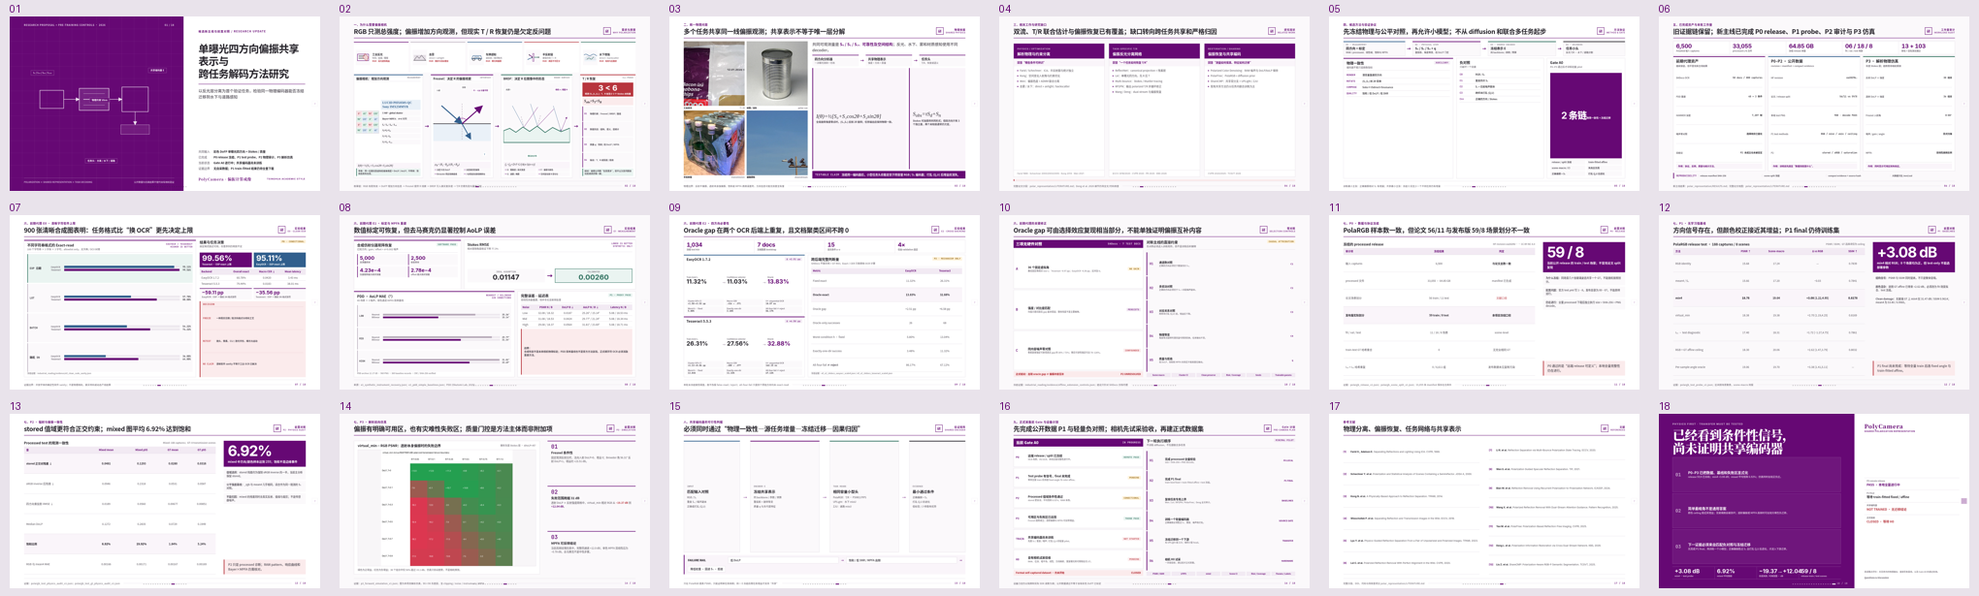
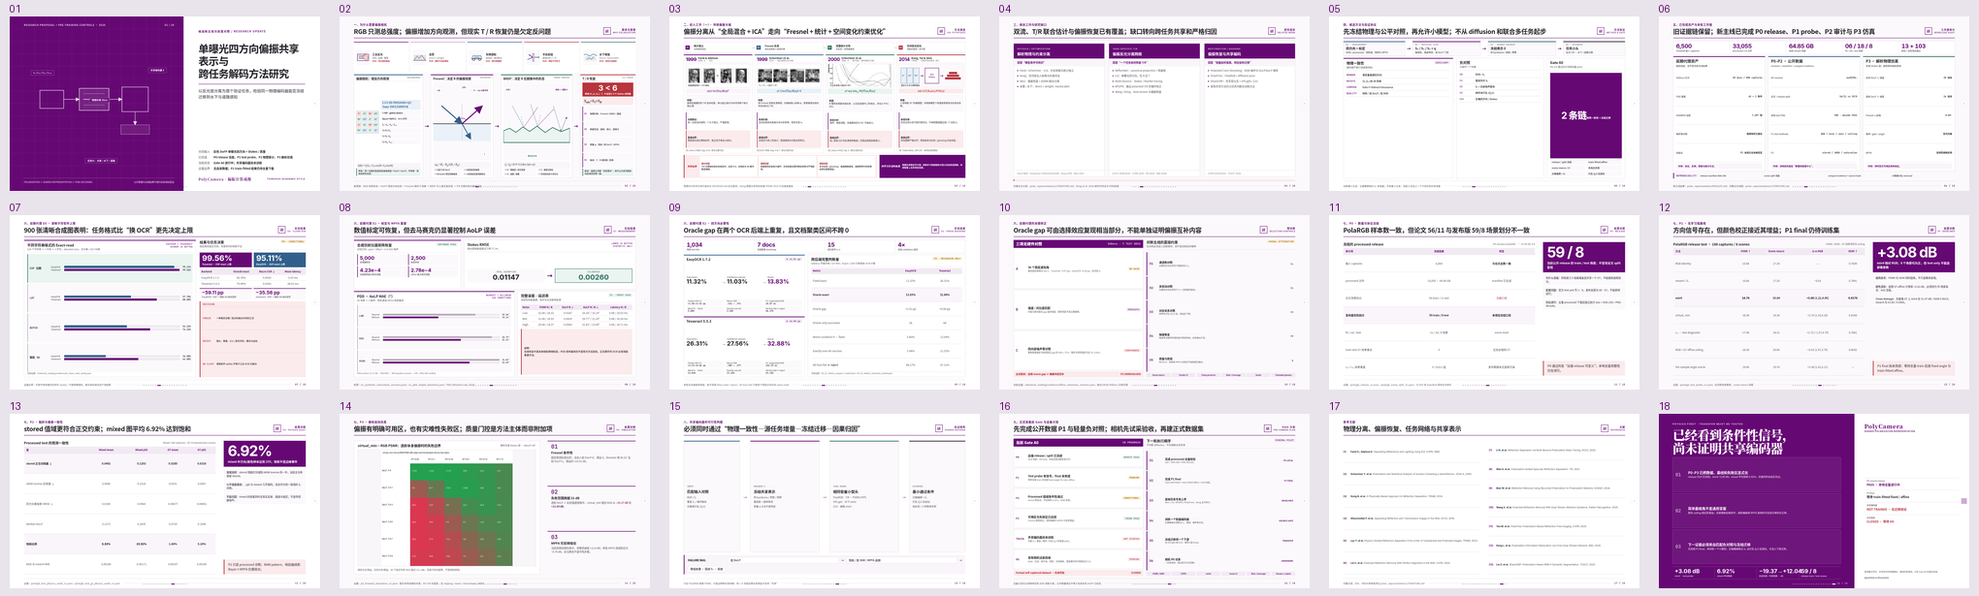
docs: revise slide 3 classical polarization methods

Changed region(s): [[0.3397, 0.0309, 0.4941, 0.3089]]

diff --git a/demo/tsinghua-ppt/index.html b/demo/tsinghua-ppt/index.html
@@ -444,6 +444,47 @@
   .hypothesis-band strong{font:800 clamp(13px,.84vw,16px)/1.2 var(--mono);letter-spacing:.06em}
   .hypothesis-band span{font:650 clamp(14px,.9vw,17px)/1.42 var(--sans)}
 
+  /* 03 · 传统偏振反光分离演进 */
+  .classical-work-layout{height:100%;display:grid;grid-template-columns:1fr;grid-template-rows:6.3vh minmax(0,1fr) 13.2vh;gap:.9vh}
+  .classical-prior-axis{position:relative;display:grid;grid-template-columns:repeat(4,1fr);gap:.72vw;align-items:stretch}
+  .classical-prior-axis::before{content:"";position:absolute;left:4%;right:4%;top:50%;height:2px;background:var(--line-strong)}
+  .classical-axis-node{position:relative;z-index:1;display:grid;grid-template-columns:2.2em 1fr;gap:.48vw;align-items:center;padding:.55vh .55vw;background:#fff;border:1px solid var(--line)}
+  .classical-axis-node .no{display:grid;place-items:center;width:2em;aspect-ratio:1;background:var(--accent);color:#fff;font:800 clamp(10px,.67vw,13px)/1 var(--mono)}
+  .classical-axis-node strong{display:block;font:750 clamp(12px,.78vw,15px)/1.2 var(--sans);color:var(--ink)}
+  .classical-axis-node span{display:block;margin-top:.2vh;font:650 clamp(10px,.65vw,12px)/1.2 var(--sans);color:var(--muted)}
+  .classical-axis-node:nth-child(2) .no{background:var(--info)}.classical-axis-node:nth-child(3) .no{background:var(--success)}.classical-axis-node:nth-child(4) .no{background:var(--danger)}
+  .classical-paper-grid{min-height:0;display:grid;grid-template-columns:repeat(4,1fr);gap:.72vw}
+  .classical-paper{min-height:0;display:grid;grid-template-rows:auto 13.7vh auto 1fr auto;gap:.5vh;padding:.72vh .62vw;border:1px solid var(--line);border-top:4px solid var(--accent);background:#fff}
+  .classical-paper:nth-child(2){border-top-color:var(--info)}.classical-paper:nth-child(3){border-top-color:var(--success)}.classical-paper:nth-child(4){border-top-color:var(--danger)}
+  .classical-paper-head{display:grid;grid-template-columns:auto 1fr;gap:.52vw;align-items:center;padding-bottom:.42vh;border-bottom:1px solid var(--line)}
+  .classical-paper-head .year{color:var(--accent);font:800 clamp(21px,1.55vw,30px)/1 var(--sans-latin);letter-spacing:-.04em}
+  .classical-paper-head h2{font:750 clamp(13px,.84vw,16px)/1.15 var(--sans);color:var(--ink)}
+  .classical-paper-head span{display:block;margin-top:.2vh;color:var(--muted);font:700 clamp(9px,.61vw,11px)/1.1 var(--mono);letter-spacing:.04em}
+  .classical-paper-figure{position:relative;min-height:0;overflow:hidden;display:grid;place-items:center;background:var(--paper-soft);border:1px solid var(--line)}
+  .classical-paper-figure img{width:100%;height:100%;display:block;object-fit:contain;background:#fff}
+  .classical-paper-figure .figure-label{position:absolute;left:.35vw;bottom:.35vh;padding:.24vh .32vw;background:rgba(255,255,255,.9);color:var(--ink-soft);font:750 clamp(9px,.6vw,11px)/1.1 var(--sans)}
+  .classical-paper-equation{padding:.48vh .45vw;background:var(--accent-pale);color:var(--accent);font:italic 650 clamp(13px,.88vw,17px)/1.2 var(--equation);text-align:center}
+  .classical-paper:nth-child(2) .classical-paper-equation{background:var(--info-soft);color:var(--info)}.classical-paper:nth-child(3) .classical-paper-equation{background:var(--success-soft);color:var(--success)}.classical-paper:nth-child(4) .classical-paper-equation{background:var(--danger-soft);color:var(--danger)}
+  .classical-paper-body{min-height:0;display:grid;grid-template-rows:repeat(3,1fr);gap:.42vh}
+  .classical-paper-body p{display:grid;align-content:center;padding:.46vh .44vw;background:var(--paper-soft);font:550 clamp(11px,.7vw,13px)/1.32 var(--sans);color:var(--ink-soft)}
+  .classical-paper-body strong{color:var(--ink);font-weight:750}
+  .classical-paper-body .added{border-left:3px solid var(--accent);background:#fff}
+  .classical-paper-body .boundary{border-left:3px solid var(--danger);background:var(--danger-soft)}
+  .classical-paper-cite{padding-top:.4vh;border-top:1px solid var(--line);font:550 clamp(9px,.61vw,11px)/1.25 var(--sans-latin);color:var(--muted)}
+  .kong-diagram{height:100%;width:100%;display:grid;grid-template-columns:1fr auto .78fr auto .92fr;gap:.32vw;align-items:center;padding:.8vh .55vw;background:var(--paper-soft)}
+  .kong-inputs{display:grid;grid-template-columns:repeat(3,1fr);gap:.2vw;height:76%}.kong-inputs i{display:grid;place-items:center;background:var(--info-soft);border:1px solid var(--info);color:var(--info);font:800 clamp(10px,.68vw,13px)/1 var(--mono);font-style:normal}
+  .kong-map{display:grid;place-items:center;height:76%;padding:.4vh .3vw;background:#fff;border:2px solid var(--accent);color:var(--accent);text-align:center;font:700 clamp(10px,.67vw,13px)/1.25 var(--equation)}
+  .kong-pyramid{height:76%;display:grid;align-content:center;justify-items:center;gap:.28vh}.kong-pyramid i{display:block;height:1.25vh;background:var(--danger)}.kong-pyramid i:nth-child(1){width:48%}.kong-pyramid i:nth-child(2){width:70%}.kong-pyramid i:nth-child(3){width:92%}
+  .kong-arrow{color:var(--accent);font:800 clamp(16px,1.1vw,21px)/1 var(--sans)}
+  .classical-bottom{min-height:0;display:grid;grid-template-columns:2.25fr 1fr;gap:.72vw}
+  .classical-limits{display:grid;grid-template-columns:auto repeat(3,1fr);gap:.5vw;align-items:stretch;padding:.65vh .62vw;background:var(--danger-soft);border-left:4px solid var(--danger)}
+  .classical-limits>strong{display:grid;place-items:center;padding:0 .42vw;color:var(--danger);font:800 clamp(11px,.72vw,14px)/1.15 var(--mono);letter-spacing:.05em}
+  .classical-limit{display:grid;align-content:center;padding:.45vh .5vw;background:#fff;font:600 clamp(10px,.67vw,13px)/1.28 var(--sans);color:var(--ink-soft)}
+  .classical-limit b{display:block;margin-bottom:.2vh;color:var(--danger);font-weight:800}
+  .classical-inspiration{display:grid;grid-template-columns:auto 1fr;gap:.6vw;align-items:center;padding:.7vh .65vw;background:var(--accent);color:#fff}
+  .classical-inspiration strong{font:800 clamp(11px,.72vw,14px)/1.2 var(--mono);letter-spacing:.05em}
+  .classical-inspiration span{font:650 clamp(10px,.67vw,13px)/1.32 var(--sans)}
+
   /* 03 · 系统、协议与 Gate */
   .protocol-layout{height:100%;display:grid;grid-template-rows:auto 1fr;gap:1.15vh}
   .compact-flow{display:grid;grid-template-columns:1fr auto 1.1fr auto 1.1fr auto 1fr;gap:.55vw;align-items:stretch}
@@ -830,16 +871,18 @@
   </div>
 </section>
 
-<section class="slide" data-layout="THU03" data-animate="academic" data-slide-id="background-physics">
-  <div class="thu-page"><header class="thu-header"><div><div class="thu-section">二、统一物理问题</div><h1 class="thu-title">多个任务共享同一线偏振观测；共享表示不等于唯一层分解</h1></div><div class="thu-brand"><div class="thu-brand-mark">研</div><div class="thu-brand-copy"><strong>物理依据</strong><span>Shared Physics</span></div></div></header>
-  <main class="thu-content compact"><div class="background-layout intro-layout">
-    <div class="intro-scenes" data-anim><figure><img src="images/03-date-code.webp" data-image-slot="thu03-industrial-reflection" alt="光泽包装反光示意"><figcaption><strong>工业反光</strong><span>T + R</span></figcaption></figure><figure><img src="images/04-metal-can.webp" data-image-slot="thu03-material-normal" alt="金属表面反射示意"><figcaption><strong>材质 / 法向</strong><span>polar cue</span></figcaption></figure><figure><img src="images/04-shrink-bottles.webp" data-image-slot="thu03-semireflector" alt="透明介质反射示意"><figcaption><strong>半反射层</strong><span>transmission</span></figcaption></figure><figure><img src="images/03-anpr.webp" data-image-slot="thu03-road-perception" alt="道路视觉感知示意"><figcaption><strong>道路感知</strong><span>downstream</span></figcaption></figure></div>
-    <div class="intro-logic" data-anim><p class="lead">共同可观测量是 <strong class="accent">S₀ / S₁ / S₂、可靠性及空间结构</strong>；反光、水下、雾和材质感知使用不同 decoder。</p>
-      <div class="problem-chain"><div class="problem-step"><strong>四方向分析器</strong><span>一次曝光测同一光场</span></div><span class="problem-arrow">→</span><div class="problem-step"><strong>共享物理表示</strong><span>强度 + 方向 + 质量</span></div><span class="problem-arrow">→</span><div class="problem-step"><strong>任务头</strong><span>T/R、恢复或语义</span></div></div>
-      <div class="physics-compact"><div class="physics-equation"><div class="math">I(θ)=½[S₀+S₁cos2θ+S₂sin2θ]</div><p>全局旋转角度零点时，(S₁,S₂) 应按 2θ 旋转；任务输出应保持物理一致。</p></div><div class="physics-equation"><div class="math">S<sub>obs</sub>=τS<sub>d</sub>+S<sub>n</sub></div><p>Stokes 可加提供共同形式；但四方向只有 3 个独立量，两个未知层通常仍欠定。</p></div></div>
-      <div class="hypothesis-band"><strong>TESTABLE CLAIM</strong><span>冻结同一编码器后，小型任务头应稳定优于同容量 RGB / S₀ 编码器；打乱 (Q,U) 后增益应消失。</span></div>
+<section class="slide" data-layout="THU04" data-animate="academic" data-slide-id="classical-reflection-separation">
+  <div class="thu-page"><header class="thu-header"><div><div class="thu-section">二、前人工作（一）· 传统偏振分离</div><h1 class="thu-title">偏振分离从“全局混合 + ICA”走向“Fresnel + 统计 + 空间变化约束优化”</h1></div><div class="thu-brand"><div class="thu-brand-mark">研</div><div class="thu-brand-copy"><strong>方法演进</strong><span>ICA TO PHYSICS</span></div></div></header>
+  <main class="thu-content tight"><div class="classical-work-layout research-map">
+    <div class="classical-prior-axis" data-anim><div class="classical-axis-node"><span class="no">01</span><div><strong>统计独立</strong><span>全局线性混合</span></div></div><div class="classical-axis-node"><span class="no">02</span><div><strong>Fresnel 反演</strong><span>混合系数受入射角约束</span></div></div><div class="classical-axis-node"><span class="no">03</span><div><strong>完整统计分布</strong><span>互信息 + 双表面玻璃</span></div></div><div class="classical-axis-node"><span class="no">04</span><div><strong>空间变化优化</strong><span>局部系数场 + 多尺度</span></div></div></div>
+    <div class="classical-paper-grid" data-anim>
+      <article class="classical-paper"><div class="classical-paper-head"><span class="year">1999</span><div><h2>Farid &amp; Adelson</h2><span>JOSA A · ICA</span></div></div><figure class="classical-paper-figure"><img src="images/03-farid-ica.webp" data-image-slot="thu04-farid-ica" alt="Farid 与 Adelson 论文中两幅偏振混合观测及 ICA 分离结果的节选组合"><span class="figure-label">两幅偏振观测 → ICA 输出</span></figure><div class="classical-paper-equation">y(x)=A·[T(x),R(x)]ᵀ</div><div class="classical-paper-body"><p><strong>侧重：</strong>旋转检偏器改变 T/R 混合权重，再以独立成分分析寻找两个统计独立源。</p><p class="added"><strong>关键假设：</strong>同一全局混合矩阵；T 与 R 独立、严格配准。</p><p class="boundary"><strong>直接边界：</strong>两层相关或文理相似时，独立性不再足以辨识。</p></div><div class="classical-paper-cite">[1] <em>JOSA A</em> 16(9), Figs. 8–9（原论文图节选）</div></article>
+      <article class="classical-paper"><div class="classical-paper-head"><span class="year">1999</span><div><h2>Schechner et al.</h2><span>ICCV · DECORRELATION</span></div></div><figure class="classical-paper-figure"><img src="images/03-schechner-decorrelation.webp" data-image-slot="thu04-schechner-iccv" alt="Schechner 等 ICCV 1999 论文中偏振观测及透射反射层重建结果节选"><span class="figure-label">f⊥ / f∥ → 估计 T / R</span></figure><div class="classical-paper-equation">φ̂: Corr[T̂(φ),R̂(φ)]=0</div><div class="classical-paper-body"><p><strong>侧重：</strong>用 Fresnel 系数反演两层；扫描玻璃入射角 φ，使重建层去相关并自动标注 T/R。</p><p class="added"><strong>新增约束：</strong>混合权重来自表面方向与折射率，而非任意 A。</p><p class="boundary"><strong>直接边界：</strong>去相关只用二阶统计；错误角度也可能出现零点。</p></div><div class="classical-paper-cite">[2] ICCV 1999, Figs. 5 &amp; 7（原论文图节选）</div></article>
+      <article class="classical-paper"><div class="classical-paper-head"><span class="year">2000</span><div><h2>Schechner et al.</h2><span>JOSA A · MUTUAL INFORMATION</span></div></div><figure class="classical-paper-figure"><img src="images/03-schechner-mi-minima.webp" data-image-slot="thu04-schechner-josa" alt="Schechner 等 JOSA A 2000 论文图 5 中互信息极小值区域，重建层互信息随假设入射角变化"><span class="figure-label">以互信息极小值估计 AOI</span></figure><div class="classical-paper-equation">φ̂=arg min<sub>φ</sub> MI[T̂(φ),R̂(φ)]</div><div class="classical-paper-body"><p><strong>侧重：</strong>扩展到双表面内部反射，以互信息替代二阶相关，并估计 POI / AOI。</p><p class="added"><strong>新增分析：</strong>噪声、角度误差、低偏振效应与 90° 平面歧义。</p><p class="boundary"><strong>直接边界：</strong>低 / 极高 AOI 时反演噪声敏感；仍假设两层依赖很小。</p></div><div class="classical-paper-cite">[3] <em>JOSA A</em> 17(2), Fig. 5（原论文图节选）</div></article>
+      <article class="classical-paper"><div class="classical-paper-head"><span class="year">2014</span><div><h2>Kong, Tai &amp; Shin</h2><span>TPAMI · CONSTRAINED OPT.</span></div></div><div class="classical-paper-figure"><div class="kong-diagram" aria-label="三张偏振输入经过空间变化入射角和平面方向估计，再进入多尺度约束优化"><div class="kong-inputs"><i>0°</i><i>45°</i><i>90°</i></div><span class="kong-arrow">→</span><div class="kong-map">φ(x)<br>POI(x)</div><span class="kong-arrow">→</span><div class="kong-pyramid"><i></i><i></i><i></i></div></div><span class="figure-label">据论文方法与摘要重绘</span></div><div class="classical-paper-equation">min E(T,R,φ(x),POI(x))</div><div class="classical-paper-body"><p><strong>侧重：</strong>三张相差 45° 的偏振图；双表面模型下处理逐像素变化的混合系数。</p><p class="added"><strong>新增约束：</strong>空间正则与多尺度约束优化，不再把整幅图压成一个全局 A。</p><p class="boundary"><strong>直接边界：</strong>多张图需严格对齐；厚玻璃多次反射 / ghosting 仍会失配。</p></div><div class="classical-paper-cite">[4] <em>TPAMI</em> 36(2), 209–221（本项目机制重绘）</div></article>
     </div>
-  </div></main><footer class="thu-footer"><span>物理边界：反射不偏振、透射本身强偏振、饱和或 MPFA 高频误差时，方向信息可能无效甚至有害</span><span class="thu-footer-line"></span><span class="thu-page-no">03 / 18</span></footer></div>
+    <div class="classical-bottom" data-anim><div class="classical-limits"><strong>共同边界</strong><div class="classical-limit"><b>统计失配</b>T/R 文理相似或本身相关时，全局 ICA、去相关与 MI 都可能选错解。</div><div class="classical-limit"><b>测量失配</b>低偏振效应会放大噪声；多张采集还要求静态场景与严格配准。</div><div class="classical-limit"><b>模型失配</b>多次反射 / ghosting、曲面粗糙玻璃、偏振照明与饱和难由简化模型覆盖。</div></div><div class="classical-inspiration"><strong>对学习方法的启发</strong><span>物理负责限定可行域；网络学习局部结构与语义先验来选择解，并用质量 q 在失效区回退。</span></div></div>
+  </div></main><footer class="thu-footer"><span>原图均为学术引用节选并在 SOURCES.md 标注图号；Kong 框图为本项目依据 TPAMI 2014 方法描述重绘</span><span class="thu-footer-line"></span><span class="thu-page-no">03 / 18</span></footer></div>
 </section>
 
 <section class="slide soft" data-layout="THU04" data-animate="academic" data-slide-id="related-work-map">
@@ -988,7 +1031,7 @@
 
 <section class="slide" data-layout="THU16" data-animate="academic" data-slide-id="references">
   <div class="thu-page"><header class="thu-header"><div><div class="thu-section">参考文献</div><h1 class="thu-title">物理分离、偏振恢复、任务网络与共享表示</h1></div><div class="thu-brand"><div class="thu-brand-mark">研</div><div class="thu-brand-copy"><strong>文献</strong><span>References</span></div></div></header>
-  <main class="thu-content"><div class="reference-layout" data-anim><div class="ref-col"><div class="ref-item"><span><strong>Farid H., Adelson E.</strong> Separating Reflections and Lighting Using ICA. CVPR, 1999.</span></div><div class="ref-item"><span><strong>Schechner Y. et al.</strong> Polarization and Statistical Analysis of Scenes Containing a Semireflector. JOSA A, 2000.</span></div><div class="ref-item"><span><strong>Kong N. et al.</strong> A Physically-Based Approach to Reflection Separation. TPAMI, 2014.</span></div><div class="ref-item"><span><strong>Wieschollek P. et al.</strong> Separating Reflection and Transmission Images in the Wild. ECCV, 2018.</span></div><div class="ref-item"><span><strong>Lyu Y. et al.</strong> Physics-Guided Reflection Separation From a Pair of Unpolarized and Polarized Images. TPAMI, 2023.</span></div><div class="ref-item"><span><strong>Lei C. et al.</strong> Polarized Reflection Removal With Perfect Alignment in the Wild. CVPR, 2020.</span></div></div><div class="ref-col"><div class="ref-item"><span><strong>Li R. et al.</strong> Reflection Separation via Multi-Bounce Polarization State Tracing. ECCV, 2020.</span></div><div class="ref-item"><span><strong>Wen S. et al.</strong> Polarization Guided Specular Reflection Separation. TIP, 2021.</span></div><div class="ref-item"><span><strong>Bian W. et al.</strong> Reflection Removal Using Recurrent Polarization-to-Polarization Network. ICASSP, 2024.</span></div><div class="ref-item"><span><strong>Wang X. et al.</strong> Polarized Reflection Removal With Dual-Stream Attention Guidance. Pattern Recognition, 2025.</span></div><div class="ref-item"><span><strong>Yao M. et al.</strong> PolarFree: Polarization-Based Reflection-Free Imaging. CVPR, 2025.</span></div><div class="ref-item"><span><strong>Deng L. et al.</strong> Polarization Information Restoration via Cross Dual-Stream Network. KBS, 2026.</span></div><div class="ref-item"><span><strong>Liu Z. et al.</strong> ShareCMP: Polarization-Aware RGB-P Semantic Segmentation. TCSVT, 2025.</span></div></div></div></main>
+  <main class="thu-content"><div class="reference-layout" data-anim><div class="ref-col"><div class="ref-item"><span><strong>Farid H., Adelson E.</strong> Separating Reflections from Images by Use of Independent Component Analysis. JOSA A, 1999.</span></div><div class="ref-item"><span><strong>Schechner Y. et al.</strong> Polarization-Based Decorrelation of Transparent Layers. ICCV, 1999.</span></div><div class="ref-item"><span><strong>Schechner Y. et al.</strong> Polarization and Statistical Analysis of Scenes Containing a Semireflector. JOSA A, 2000.</span></div><div class="ref-item"><span><strong>Kong N. et al.</strong> A Physically-Based Approach to Reflection Separation. TPAMI, 2014.</span></div><div class="ref-item"><span><strong>Wieschollek P. et al.</strong> Separating Reflection and Transmission Images in the Wild. ECCV, 2018.</span></div><div class="ref-item"><span><strong>Lyu Y. et al.</strong> Physics-Guided Reflection Separation From a Pair of Unpolarized and Polarized Images. TPAMI, 2023.</span></div><div class="ref-item"><span><strong>Lei C. et al.</strong> Polarized Reflection Removal With Perfect Alignment in the Wild. CVPR, 2020.</span></div></div><div class="ref-col"><div class="ref-item"><span><strong>Li R. et al.</strong> Reflection Separation via Multi-Bounce Polarization State Tracing. ECCV, 2020.</span></div><div class="ref-item"><span><strong>Wen S. et al.</strong> Polarization Guided Specular Reflection Separation. TIP, 2021.</span></div><div class="ref-item"><span><strong>Bian W. et al.</strong> Reflection Removal Using Recurrent Polarization-to-Polarization Network. ICASSP, 2024.</span></div><div class="ref-item"><span><strong>Wang X. et al.</strong> Polarized Reflection Removal With Dual-Stream Attention Guidance. Pattern Recognition, 2025.</span></div><div class="ref-item"><span><strong>Yao M. et al.</strong> PolarFree: Polarization-Based Reflection-Free Imaging. CVPR, 2025.</span></div><div class="ref-item"><span><strong>Deng L. et al.</strong> Polarization Information Restoration via Cross Dual-Stream Network. KBS, 2026.</span></div><div class="ref-item"><span><strong>Liu Z. et al.</strong> ShareCMP: Polarization-Aware RGB-P Semantic Segmentation. TCSVT, 2025.</span></div></div></div></main>
   <footer class="thu-footer"><span>完整分层、DOI、代码与待核查项见 polar_representation/LITERATURE.md</span><span class="thu-footer-line"></span><span class="thu-page-no">17 / 18</span></footer></div>
 </section>
 
@@ -1002,8 +1045,8 @@
 <script>
 const SPEAKER_NOTES = [
   {id:'cover',title:'候选新主线与当前边界',section:'开场',minutes:0.4,purpose:'交代共享偏振表示的新主线、已完成 P0–P3 和尚未训练的边界',talk:['候选主线不再是只优化一个 OCR 或去反光任务，而是学习可冻结复用的偏振表示','反光层分离是第一个源任务，水下与道路分割是下游候选','目前只完成公开数据和解析仿真的 P0–P3；没有共享编码器结果，也没有自采数据'],transition:'先说明方向如何从前期深度和识读代理演进到共享表示'},
-  {id:'direction-change',title:'为什么需要偏振相机',section:'物理基础',minutes:1.8,purpose:'按“RGB 场景失效—DoFP 新观测—Fresnel 线索—BRDF 复杂度—T/R 欠定恢复”建立完整动机',talk:['先看顶部五类场景：工业高光会遮笔画，雾和水下把 direct 与散射叠加，车牌有逆反射和夜间眩光，玻璃让 transmission 与 reflection 同像素叠加；RGB 只测总强度，难区分成分','LUCID Phoenix PHX050S-QC / Sony IMX250MYR 用 Bayer 与四方向微偏振阵列一次曝光获取 I0、I45、I90、I135；经过标定和重建得到 S0、S1、S2，因此能合成任意虚拟检偏角并计算 DoLP/AoLP','Fresnel 图说明 s/p 反射系数随入射角不同，Brewster 角附近 R 的偏振线索最强；这决定图像中 R 的 DoLP 和最有利检偏角','BRDF 图说明真实 R 还由粗糙度 D、Fresnel F、遮蔽 G 和微法向分布共同决定，所以高光宽度、位置、颜色和偏振在空间上变化，不能套一个全局角度','最后观测只有三个独立 Stokes 量，而 T、R 各自至少有三个未知量；偏振增加信息但问题仍欠定，需要物理重组、数据先验和质量 q，在饱和或低 DoLP 时回退或拒绝'],transition:'下一页再展示传统 ICA、偏振 T/R 分离网络和其他相关工作分别如何处理这个欠定问题',cue:'按页面从上到下、从左到右讲：五场景 → 相机 → Fresnel → BRDF → 3<6'},
-  {id:'background-physics',title:'统一物理问题',section:'问题与文献',minutes:1.0,purpose:'给出共享表示的物理依据和欠定边界',talk:['四方向只测得三个独立线偏振 Stokes 量，多个任务共享的是这一光场而不是最终结果图','互不相干光的 Stokes 可加，使反光、雾和水下可写成 direct 与 nuisance 的统一形式','但两个未知层通常超过三个未知量，物理只缩小解空间，不能保证唯一分解','所以要同时输出质量，并在低 DoLP、饱和和 MPFA 失败时回退'],transition:'物理基础已有长期积累，下面明确现有网络已经做到哪里、我们的缺口还剩什么'},
+  {id:'direction-change',title:'为什么需要偏振相机',section:'物理基础',minutes:1.8,purpose:'按“RGB 场景失效—DoFP 新观测—Fresnel 线索—BRDF 复杂度—T/R 欠定恢复”建立完整动机',talk:['先看顶部五类场景：工业高光会遮笔画，雾和水下把 direct 与散射叠加，车牌有逆反射和夜间眩光，玻璃让 transmission 与 reflection 同像素叠加；RGB 只测总强度，难区分成分','LUCID Phoenix PHX050S-QC / Sony IMX250MYR 用 Bayer 与四方向微偏振阵列一次曝光获取 I0、I45、I90、I135；经过标定和重建得到 S0、S1、S2，因此能合成任意虚拟检偏角并计算 DoLP/AoLP','Fresnel 图说明 s/p 反射系数随入射角不同，Brewster 角附近 R 的偏振线索最强；这决定图像中 R 的 DoLP 和最有利检偏角','BRDF 图说明真实 R 还由粗糙度 D、Fresnel F、遮蔽 G 和微法向分布共同决定，所以高光宽度、位置、颜色和偏振在空间上变化，不能套一个全局角度','最后观测只有三个独立 Stokes 量，而 T、R 各自至少有三个未知量；偏振增加信息但问题仍欠定，需要物理重组、数据先验和质量 q，在饱和或低 DoLP 时回退或拒绝'],transition:'下一页先看传统方法如何从 ICA 逐步加入 Fresnel、统计分布和空间变化约束',cue:'按页面从上到下、从左到右讲：五场景 → 相机 → Fresnel → BRDF → 3<6'},
+  {id:'classical-reflection-separation',title:'传统偏振反光分离演进',section:'问题与文献',minutes:1.7,purpose:'用四篇代表工作说明传统路线如何从全局 ICA 逐步加入 Fresnel、统计分布和空间变化约束',talk:['Farid 与 Adelson 把两幅正交检偏图视为同一 T/R 的不同线性混合，并用 ICA 寻找统计独立源；这是最经典的“光学调制 + 盲源分离”起点','Schechner 的 ICCV 1999 工作不再让混合矩阵任意变化，而是用 Fresnel 系数把权重绑定到玻璃入射角；通过重建层去相关估计角度，并解决 ICA 的层标签歧义','JOSA A 2000 进一步考虑双表面内部反射，以互信息替代只看二阶矩的相关系数，同时系统分析噪声、角度误差和入射平面歧义','Kong 2014 使用三张相差 45 度的偏振图，把入射角和入射平面方向扩展为空间变化系数场，再通过多尺度约束优化求分离','共同边界是先验失配：T/R 相似文理或相关、低偏振与噪声、多次反射和动态错位都会破坏解析假设；对深度学习的启发不是丢掉物理，而是让网络补充局部结构与语义先验，并保留物理重组和质量门控'],transition:'传统路线已经把可辨识条件讲清楚，下一页再看深度网络如何用数据先验处理更复杂的真实场景',cue:'按顶部约束轴从左到右讲四篇工作，最后落到下方“统计 / 测量 / 模型失配”'},
   {id:'related-work-map',title:'相关工作与研究缺口',section:'问题与文献',minutes:1.2,purpose:'按路线梳理前人工作，并避免把已有双流/T-R/偏振恢复误写成创新',talk:['传统路线从 ICA、半反射面到空间变化入射角和 ADMM，主要回答可辨识条件','任务网络已经覆盖 canonical projection、先 R 后 T、多次反射 tracing、polarized T/R、dual-stream 和 polarization restoration','PolarFree 提供大规模数据，ShareCMP 提供共享双分支与下游接口','因此候选差异必须是冻结跨任务、严格负对照归因和失效质量门控；Deng 2026 的全文细节仍需核查'],transition:'基于这个缺口，下一页给出最小方法和不允许跳过的 Gate'},
   {id:'system-protocol',title:'候选方法与验证协议',section:'方法与协议',minutes:1.0,purpose:'说明物理 stem、共享编码器、任务头、负对照和 Gate A0',talk:['先把四方向校准为 Stokes 与质量，再进入共享编码器；decoder 保持小且同容量','物理约束包括重投影、角度等变和层重组，不能只看 PSNR','负对照只破坏一个因素：重复 S0、噪声副本、跨样本打乱 Q,U','P0–P3 未完成前不训练；通过后也只跑轻量 pilot，不先上 diffusion'],transition:'先集中展示本轮新增的公开数据与仿真工作量'},
   {id:'workload-audit',title:'已完成资产与本轮工作量',section:'方法与协议',minutes:0.9,purpose:'区分历史资产和新主线 P0–P3 产物',talk:['旧的 SHDocs、PDD、HAMMER 不删除，但只承担协议、反例和测量资产角色','PolaRGB 远端 revision、33,055 个文件和 59/8 场景口径已经冻结','P3 已扫描反射/透射偏振、Fresnel、噪声、仪器和 MPFA；新旧测试分别 13 和 103 项通过','完整 processed 数据仍在仓库外下载，不能把 test probe 讲成 P1 final'],transition:'接下来三页用最短时间回顾旧代理实验为何仍有方法论价值'},

diff --git a/demo/tsinghua-ppt/images/SOURCES.md b/demo/tsinghua-ppt/images/SOURCES.md
@@ -1,6 +1,6 @@
 # PPT 图片来源与许可
 
-以下图片均下载自 Wikimedia Commons，用于本项目学术汇报中的工业场景示意。它们不是本项目实验数据。本文档记录原文件、作者和许可；本地 WebP 仅做尺寸压缩和格式转换。
+以下第一组场景图片下载自 Wikimedia Commons，用于本项目学术汇报中的工业场景示意。它们不是本项目实验数据。本文档记录原文件、作者和许可；本地 WebP 仅做尺寸压缩和格式转换。第 3 页另含论文原图节选，单独记录在后表。
 
 | 本地文件 | 原文件与作者 | 许可 |
 |---|---|---|
@@ -14,6 +14,18 @@
 | `04-standup-pouch.webp` | [Stand-up pouch.jpg](https://commons.wikimedia.org/wiki/File:Stand-up_pouch.jpg), Pkgx | [CC BY-SA 4.0](https://creativecommons.org/licenses/by-sa/4.0/) |
 
 图注中的“Wikimedia Commons”指向本清单。后续获得自有喷码工位、工件和四方向偏振照片后，应优先替换这些场景示意图，并保留“网络示意图”和“本项目实验数据”的明确区分。
+
+## 第 3 页论文图节选
+
+以下图像只用于说明传统偏振分离方法的历史演进，均在页面内写明作者、年份、出处和图号；版权归原作者与出版方。它们不是本项目实验结果，也不用于重新评测论文性能。
+
+| 本地文件 | 原始论文与图号 | 本地处理 |
+|---|---|---|
+| `03-farid-ica.webp` | H. Farid and E. H. Adelson, *Separating Reflections from Images by Use of Independent Components Analysis*, JOSA A 16(9), 1999, [author PDF](https://hfarid.org/downloads/publications/josa99.pdf), Figs. 8–9 | 从论文图中节选两幅偏振混合观测与 ICA 输出，统一灰度、并排排版；未改变图像内容 |
+| `03-schechner-decorrelation.webp` | Y. Y. Schechner, J. Shamir and N. Kiryati, *Polarization-Based Decorrelation of Transparent Layers: The Inclination Angle of an Invisible Surface*, ICCV 1999, [author PDF](https://webee.technion.ac.il/people/yoav/publications/iccv99polart2.pdf), Figs. 5 and 7 | 节选检偏观测与重建层，统一灰度、并排排版；未改变图像内容 |
+| `03-schechner-mi-minima.webp` | Y. Y. Schechner, J. Shamir and N. Kiryati, *Polarization and Statistical Analysis of Scenes Containing a Semireflector*, JOSA A 17(2), 2000, [author PDF](https://webee.technion.ac.il/people/yoav/publications/polarjosa.pdf), Fig. 5 | 节选互信息曲线的极小值区域，转换为 WebP 并轻微增强投影对比度；曲线内容未改动 |
+
+第 3 页 Kong–Tai–Shin 卡片中的流程图为本项目依据 *A Physically-Based Approach to Reflection Separation: From Physical Modeling to Constrained Optimization*, TPAMI 36(2), 2014, DOI [`10.1109/TPAMI.2013.45`](https://doi.org/10.1109/TPAMI.2013.45) 的方法描述与公开摘要重绘，不是论文原图。
 
 ## 本项目原创示意图
 
@@ -29,7 +41,7 @@ BRDF 图均为 HTML/CSS/无文字 SVG 的本项目原创机制示意，不是相
 | 页码 | 内容 | 冻结来源 |
 |---|---|---|
 | 2 | 五类 RGB 失效场景、彩色偏振相机、Stokes、Fresnel、microfacet BRDF 与 T/R 欠定 | LUCID Phoenix PHX050S-QC 产品资料、Sony IMX250MYR / Polarsens 资料、`05_polarization_camera_physical_models.md`、Born & Wolf *Principles of Optics*、Cook–Torrance / Walter 等 microfacet 模型、Schechner / ReflectNet 的半反射层模型；所有图为机制示意，4×4 单元非芯片实际相位图 |
-| 3 | 四方向 Stokes 与统一 direct/nuisance 物理形式 | `05_polarization_camera_physical_models.md`、`polar_representation/LITERATURE.md`；4 张照片为上述 Commons 场景示意（该页将在下一轮改为传统 ICA 与偏振分离网络） |
+| 3 | Farid–Schechner–Kong 的传统偏振 T/R 分离演进、共同边界及对学习先验的启发 | 上述三张论文图节选；Farid & Adelson, JOSA A 1999；Schechner et al., ICCV 1999 / JOSA A 2000；Kong et al., TPAMI 2014；方法口径同步见 `polar_representation/LITERATURE.md` |
 | 4 | 物理分离、任务网络、偏振恢复与共享表示路线 | `polar_representation/LITERATURE.md`；Deng et al. 2026 的网络细节按“待全文核查”处理 |
 | 5 | 物理 stem、共享编码器、负对照与 Gate A0 | `15_shared_polarization_encoder_pretraining_controls.md` 第 10 节 |
 | 6 | PolaRGB 与 P0–P3 工作量 | `polar_representation/evidence/polargb_release_v1.json`、`p0_p3_evidence_index_v1.json`、`polar_representation/RESULTS.md` |

diff --git a/demo/tsinghua-ppt/speech-script.md b/demo/tsinghua-ppt/speech-script.md
@@ -1,7 +1,7 @@
 # 周汇报演讲稿（对应 HTML PPT 18 页）
 
 - **主题：** 单曝光四方向偏振共享表示与跨任务解码方法研究。
-- **计划时长：** 演讲者备注合计 16.8 分钟，建议实际控制在 17–18 分钟。
+- **计划时长：** 演讲者备注合计 17.5 分钟，建议实际控制在 18–19 分钟。
 - **证据边界：** P0–P3 来自公开数据和解析仿真；共享编码器尚未训练；没有自采结果。
 - **用法：** 普通段落可直接讲；引用块为提醒，不念。
 
@@ -11,7 +11,7 @@
 |---|---|---:|---|
 | 1 | 封面 | 0.4 | 新主线是共享偏振编码器，但尚未训练 |
 | 2 | 为什么需要偏振相机 | 1.8 | RGB 不足→方向观测→Fresnel/BRDF→T/R 仍欠定 |
-| 3 | 统一物理 | 1.0 | 共享的是 Stokes 光场，不是唯一层分解 |
+| 3 | 传统偏振反光分离 | 1.7 | ICA→Fresnel→互信息→空间变化约束优化 |
 | 4 | 相关工作 | 1.2 | 双流、T/R、偏振恢复已有覆盖 |
 | 5 | 方法与 Gate | 1.0 | 先冻结物理和负对照，再允许小模型 |
 | 6 | 工作量 | 0.9 | P0–P3 已有冻结产物 |
@@ -43,11 +43,17 @@
 
 最后落到 T/R 恢复：四方向理想情况下只有 S0、S1、S2 三个独立观测，但 T 和 R 各自至少有三个 Stokes 未知量，也就是 3 小于 6。满足 `Sobs=ST+SR` 的分解有无限多组。偏振让问题获得更多约束，但没有自动变成闭式唯一解；仍需要物理重组约束、数据先验来选择可能解，并用质量 q 在饱和、低 DoLP 或 MPFA 失败时回退或拒绝。
 
-## 第 3 页 · 统一物理问题
+## 第 3 页 · 传统偏振反光分离演进
 
-四方向共同约束三个线偏振 Stokes 量。互不相干光的 Stokes 可以相加，所以反光、雾和水下都能写成 direct 与 nuisance 的组合。
+这一页不是简单列论文，而是看先验怎样逐步增加。Farid 和 Adelson 在 1999 年 JOSA A 的经典工作中，先用旋转检偏器拍摄两幅反射强弱不同、但内容对齐的图像，把它们写成同一 transmission 和 reflection 的不同线性混合。然后假设两个场景统计独立，通过 ICA 估计解混矩阵。这一步的贡献是把光学调制转成盲源分离问题，但混合矩阵仍是全局的，且依赖 T 与 R 独立。
 
-但四方向只有三个独立量，两个未知层通常超过三个未知量，问题仍然欠定。物理的作用是缩小解空间并定义失败区，不是保证唯一分解。
+Schechner 等人的 ICCV 1999 工作加入了更明确的偏振物理。混合权重不再是任意矩阵，而由 Fresnel 系数、折射率和玻璃入射角决定。他们对候选入射角逐一反演 T/R，选择使重建层互相关为零的角度，因此既估计半反射面的倾角，也能给两层标注 transmission 或 reflection。
+
+同一团队在 JOSA A 2000 进一步扩展到双表面玻璃和内部反射，并指出只看二阶相关可能出现错误零点。于是改用重建层互信息的极小值估计入射角，同时从检偏角正弦响应估计入射平面方向。论文还系统分析了噪声放大、角度误差，以及入射平面存在的 90 度根本歧义。
+
+Kong、Tai 和 Shin 在 TPAMI 2014 中继续把模型从全局角度推进到空间变化：输入为同视点、相差 45 度的三张偏振图，混合系数随像素处的入射角和入射平面方向变化，再通过多尺度约束优化寻找 T/R。也就是说，路线已经从“一个全局解混矩阵”走到“逐像素物理系数场加空间正则”。
+
+但共同问题没有消失：如果 T 与 R 具有相似纹理或本身相关，ICA、去相关和互信息都可能选错；低偏振效应会放大噪声；多张采集要求静态和配准；厚玻璃多次反射、ghosting、曲面粗糙界面、偏振照明和饱和都会造成模型失配。对深度学习的启发不是抛弃物理，而是让物理定义可行域，让网络补充局部结构和语义先验，并在不可辨识时输出质量、回退或拒绝。
 
 ## 第 4 页 · 相关工作与缺口
 

diff --git a/polar_representation/LITERATURE.md b/polar_representation/LITERATURE.md
@@ -9,8 +9,9 @@
 
 | 工作 | 本项目借助的内容 | 当前用途 |
 |---|---|---|
-| Farid & Adelson, *Separating Reflections and Lighting Using ICA*, CVPR 1999 | 多偏振观测作为不同混合、统计独立分层 | 传统无学习基线 |
-| Schechner, Shamir & Kiryati, *Polarization and Statistical Analysis of Scenes Containing a Semireflector*, JOSA A 2000 | 半反射介质、表面方向、互信息、噪声/角度误差与根本歧义 | 物理假设与失败边界 |
+| Farid & Adelson, *Separating Reflections from Images by Use of Independent Component Analysis*, JOSA A 1999 | 两幅正交检偏图作为同一 T/R 的不同全局线性混合，以统计独立性做 ICA 分层 | 传统无学习基线 |
+| Schechner, Shamir & Kiryati, *Polarization-Based Decorrelation of Transparent Layers: The Inclination Angle of an Invisible Surface*, ICCV 1999 | 用 Fresnel 权重反演两层，以重建层去相关估计半反射面的入射角并标注 T/R | 从任意 ICA 混合矩阵到物理混合矩阵 |
+| Schechner, Shamir & Kiryati, *Polarization and Statistical Analysis of Scenes Containing a Semireflector*, JOSA A 2000 | 双表面内部反射、表面方向、互信息、噪声/角度误差与根本歧义 | 物理假设与失败边界 |
 | Kong, Tai & Shin, *A Physically-Based Approach to Reflection Separation*, CVPR 2012 / TPAMI 2014 | 空间变化入射角、约束优化、三偏振图分层 | 传统物理强基线候选 |
 | Wieschollek et al., *Separating Reflection and Transmission Images in the Wild*（ReflectNet）, ECCV 2018 | canonical projection、残差 T/R、曲面/动态范围/非刚性合成 | P3 仿真设计、早期学习基线 |
 | Lei et al., *Polarized Reflection Removal With Perfect Alignment in the Wild*, CVPR 2020 | PHX050S-P + IMX250MZR 单曝光四方向、M-R 采集、先 R 后 T 两阶段网络、807 对数据 | 与自有设备最接近的真实数据/网络基线 |
@@ -22,6 +23,11 @@
 
 此外，PDD 公开数据用于去马赛克/噪声代理；SHDocs 用于此前 OCR 选择效应对照；HAMMER/PPFT
 仅保留为历史偏振质量与可靠性方法，不作为反光分离精度证据。
+
+上述传统路线的约束演进是：全局线性混合与统计独立 → Fresnel 系数和表面方向 → 完整概率分布与
+双表面内部反射 → 空间变化系数场和多尺度约束优化。其共同边界包括 T/R 相关或相似纹理、低偏振
+效应下的噪声放大、多图配准，以及厚玻璃多次反射、ghosting、曲面/粗糙界面和偏振照明造成的
+模型失配。学习方法应补充局部结构和语义先验，而不是删除物理重投影与质量门控。
 
 ## 2. 必须补入的直接竞争工作
 
